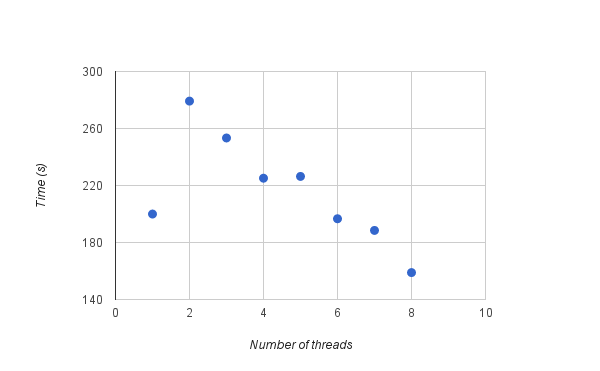
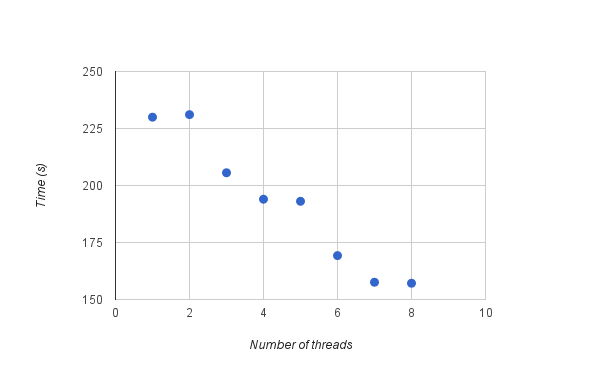
Update performances

diff --git a/README.md b/README.md
@@ -48,18 +48,18 @@ The weight is added to the loss function, in order to reduce the l2-norm of the 
 The learning phase is parallelized on the data, ie each thread computes a certain number of images of a batch. So the number of thread has to be less then the number of images by batch.  
 
 The following graphs show the learning execution time for different neural networks, with a batch of 100 images.  
-Tests are realised on a Intel i7-4750HQ @ 2.00GHz x 8 wirh 16Gio of RAM.  
+Tests are realised on a Intel i7-4750HQ @ 2.00GHz x 8 (only 4 real) with 16Gio of RAM.  
 
 For 50 hidden nodes, and 10 iterations :  
 ![Result](https://raw.githubusercontent.com/Jeanselme/Neural_Network_Object/master/Images/50-10-100.png)  
-The cost of parallelization is interesting for more than 6 threads.  
+The cost of parallelization is interesting for more than 2 threads.  
 
 For 500 hidden nodes and 1 iteration :  
 ![Result](https://raw.githubusercontent.com/Jeanselme/Neural_Network_Object/master/Images/500-1-100.png)  
 This configuration seems curious, it is certainly due to my cpu architecture.  
 
-For 5000 hidden nodes and 1 iteration :  
-![Result](https://raw.githubusercontent.com/Jeanselme/Neural_Network_Object/master/Images/5000-1-100.png)  
+For 5000 hidden nodes and 100 iteration :  
+![Result](https://raw.githubusercontent.com/Jeanselme/Neural_Network_Object/master/Images/5000-100-100.png)  
 This shows the interest of parallelize the neural network.  
 However it would be interesting to study it with larger batch and more numerous threads.
 
